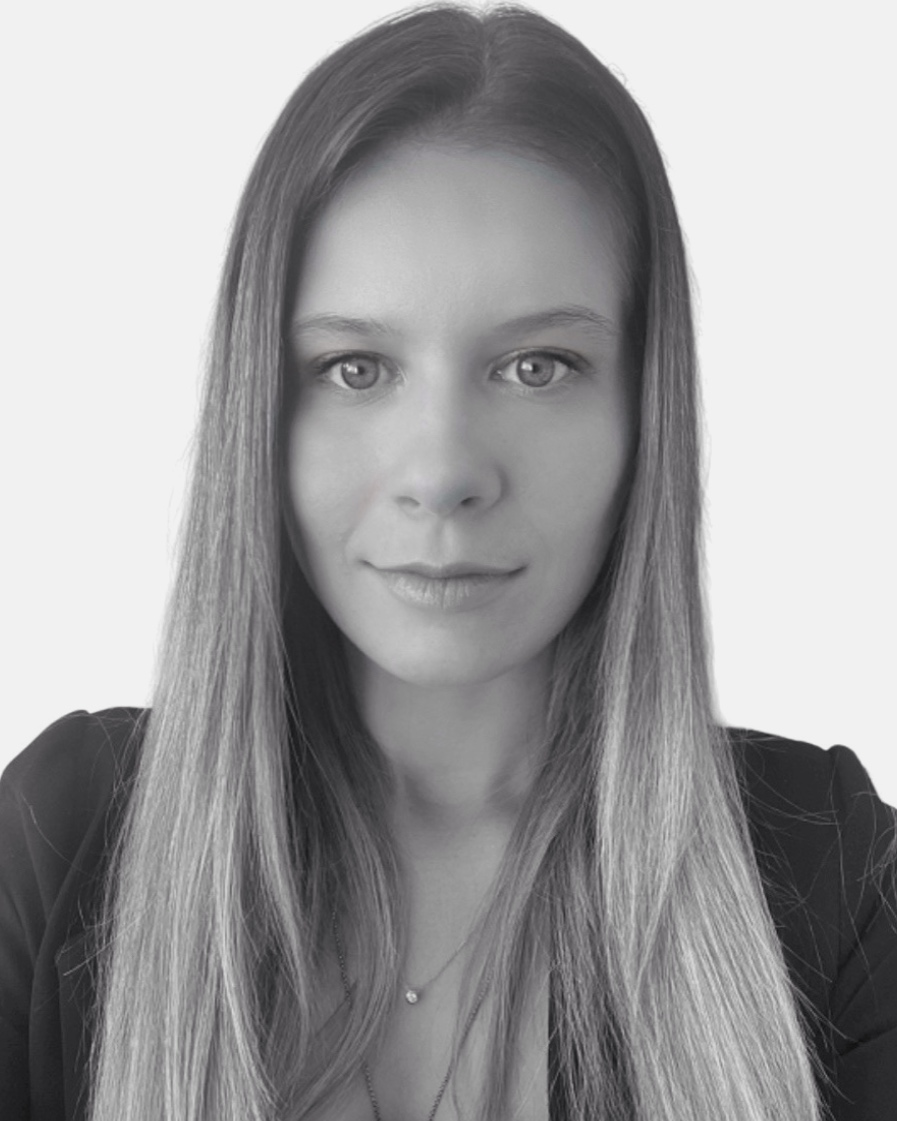
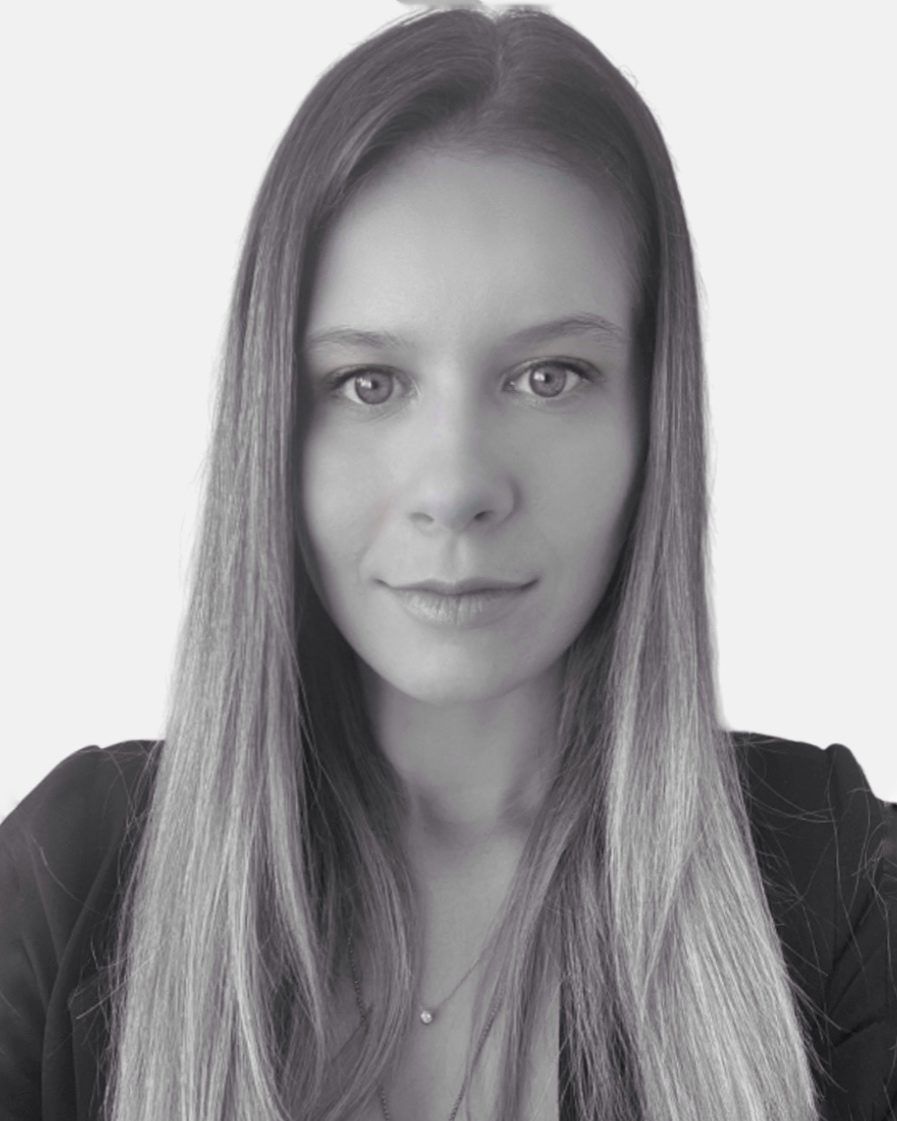
change pitrure + height

diff --git a/index.html b/index.html
@@ -281,7 +281,7 @@
       .avatar-placeholder { width: 180px; height: 180px; }
 
       /* ✅ EXTENSION: keep avatar image responsive too */
-      .avatar-wrapper { width: 180px; height: 180px; }
+      .avatar-wrapper { width: 180px; height: 225px; }
     }
 
     @media (max-width: 600px) {
